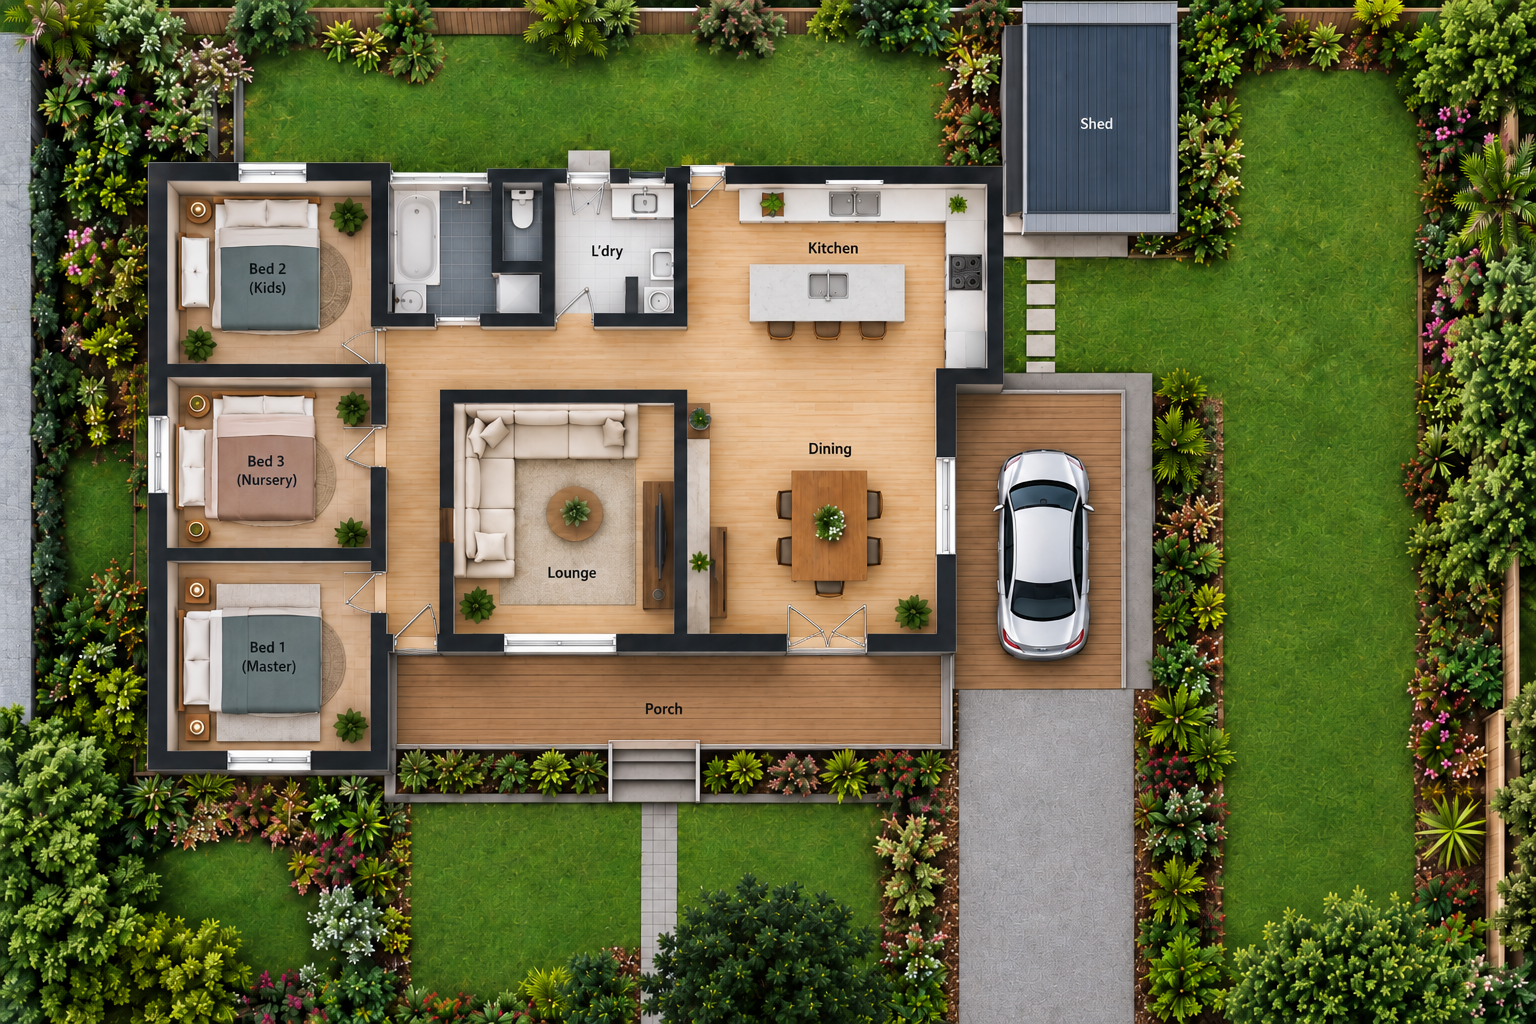
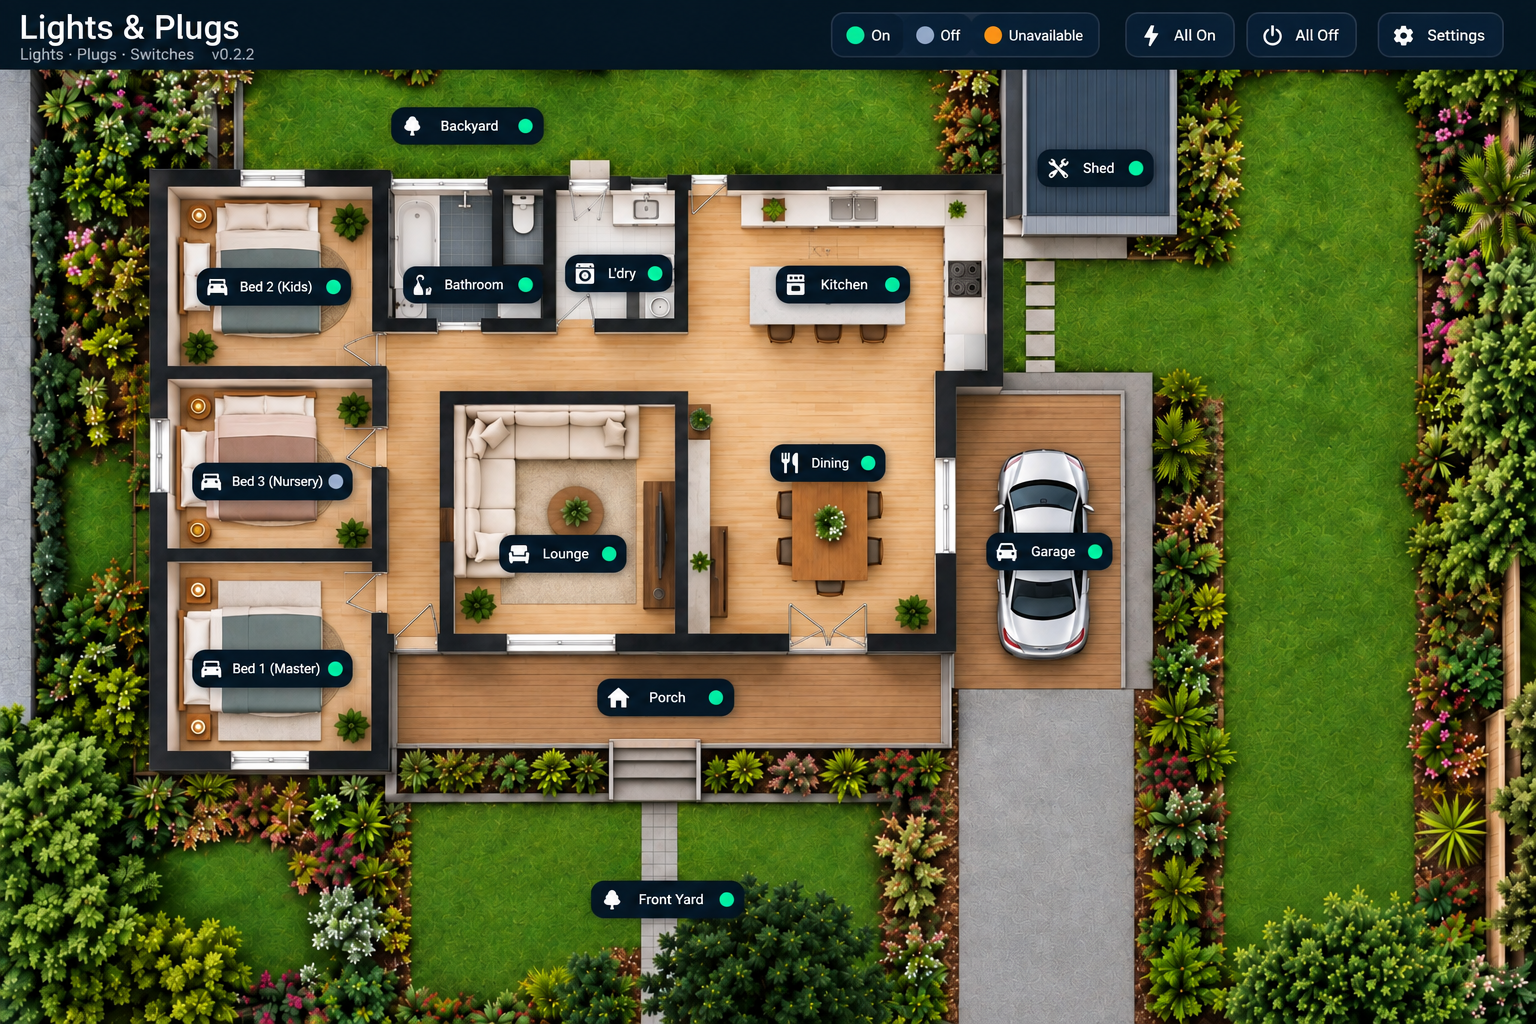
update

diff --git a/custom_components/summer_climate_manager/frontend/summer-climate-floorplan.js b/custom_components/summer_climate_manager/frontend/summer-climate-floorplan.js
@@ -1,4 +1,4 @@
-const CARD_VERSION = "0.1.5";
+const CARD_VERSION = "0.1.7";
 
 class SummerClimateFloorplan extends HTMLElement {
   setConfig(config) {
@@ -75,7 +75,7 @@ class SummerClimateFloorplan extends HTMLElement {
     const cfg=f.card_config, z=this.selected||"open";
     const labels={kids:"Bed 2 (Kids)",nursery:"Bed 3 (Nursery)",
                   master:"Bed 1 (Master)",open:"Open Plan"};
-    const img="/summer_climate_manager_static/floorplan.png?v=015";
+    const img="/summer_climate_manager_static/floorplan.png?v=017";
     const gridImport=this.manager("grid_import");
     const gridExport=this.manager("grid_export");
     const evPower=this.manager("ev_charger_power");
